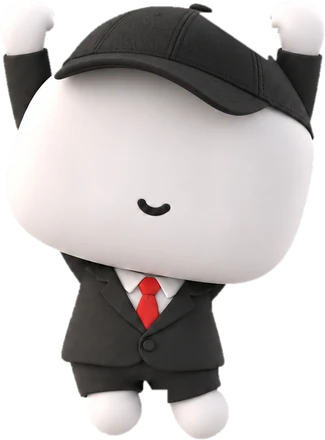
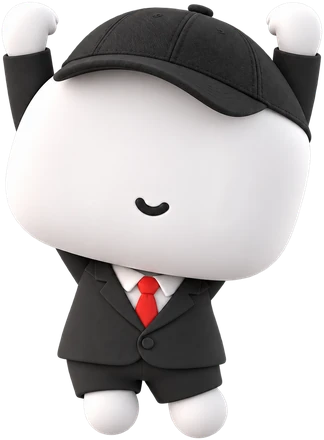
Mascot from the clean renders, arm-only wave, hiding peeker, dialogs stack in open order
- Mascot layers rebuilt from the clean-background PNGs (no backdrop left);
  the wave door moves only its arm; the new-account door's mascot hides
  below the edge and rises while the card is hovered or focused
- New placements: side-peeker on Add an account, ledge on the Profile card,
  arms-up in Restore
- Whatever dialog opens last is on top: a confirm or "Name the new profile"
  asked from inside a browse dialog used to open behind it. Escape closes the
  top dialog only, and the focus trap hands back to the dialog below

diff --git a/master/mascot.js b/master/mascot.js
@@ -6,10 +6,11 @@
 // was an SVG re-drawing and it never looked like him (Furqan, 2026-09-17), so
 // the renders themselves are used, rigged the way a 2D animator would:
 //
-//   mascot/<pose>.webp        the render, cut out of its studio backdrop, with
-//                             the eyes painted out (the face filled in under
-//                             them from the surrounding shading)
+//   mascot/<pose>.webp        the render (from Furqan's clean-background PNGs,
+//                             not keyed off a backdrop), with the eyes painted
+//                             out (filled in from the surrounding shading)
 //   mascot/<pose>-eyes.webp   the render's own eyes, alone, on transparency
+//   mascot/wave-arm.webp      wave only: the raised arm, so it can wave alone
 //
 // Stacked, the two reproduce the render exactly. Apart, the eyes can blink
 // (squash to a line) and follow the pointer without touching the face.
@@ -30,6 +31,8 @@
 //   host.appendChild(m);
 //   NumaxMascot.play(m, 'hop');      // one-shot: hop | nod | pop | wiggle
 //   NumaxMascot.pose(m, 'wave');     // switch pose in place
+//   NumaxMascot.create({ pose: 'ledge', hide: true })  // rests below its edge
+//   NumaxMascot.peek(m, true|false)  // ...comes up / goes back down
 //
 // Poses:  wave (standing, one hand up; `stand` is the same render)
 //         ledge (peeking up over an edge: put the element's bottom ON the edge;
@@ -37,7 +40,7 @@
 //         peek (leaning out from behind an edge; side:'left'|'right' names the
 //               side the edge is on)
 //         hang (hanging from an edge: put the element's top on the edge)
-// Loops:  idle (breathing / bob / sway, per pose) | blink | wave (a hello rock)
+// Loops:  idle (breathing / bob / sway, per pose) | blink | wave (the arm waves)
 //         | swing (hang) | look (glances about when not following)
 // follow: true makes the eyes and a slight lean track the pointer.
 // size:   the rendered WIDTH, as before.
@@ -61,12 +64,21 @@
   // Per render: its size (for the aspect ratio) and each eye's box as
   // [left, top, width, height] in percent of the figure, padded so a moved or
   // squashed eye never shows the edge of its own box.
+  // `arm` (wave only): the raised arm is its own layer, mascot/wave-arm.webp,
+  // figure-sized, turning about the shoulder at [left, top] percent. The body
+  // under it keeps a shoulder stub so the joint never opens. It only swings
+  // OUTWARD far — past about +6deg the sleeve's underside parts from the torso.
+  // Rebuilt 2026-09-17 from Furqan's own clean-background renders (the earlier
+  // cut-outs had been keyed off a studio backdrop and some of it showed).
   var ART = {
-    wave:  { w: 329, h: 440, eyes: [[23.72, 33.93, 9.9, 11.61], [63.31, 40.69, 10.07, 11.73]] },
-    ledge: { w: 406, h: 440, eyes: [[24.42, 48.59, 9.87, 15.26], [65.71, 54.89, 10.05, 15.42]] },
-    hang:  { w: 325, h: 440, eyes: [[23.5, 32.57, 10.02, 11.98], [63.93, 37.69, 10.38, 12.11]] },
-    peek:  { w: 280, h: 440, eyes: [[16.95, 30.22, 12.57, 10.68], [56.38, 41.99, 12.76, 10.68]] },
+    wave:  { w: 326, h: 440, eyes: [[17.82, 29.89, 22.14, 19.38], [56.65, 36.7, 22.82, 19.21]], arm: [24.45, 69.13] },
+    ledge: { w: 396, h: 440, eyes: [[18.68, 40.51, 23.03, 25.53], [59.26, 46.29, 24.02, 25.74]] },
+    hang:  { w: 324, h: 440, eyes: [[16.68, 28.29, 23.27, 20.51], [56.95, 33.07, 23.64, 20.87]] },
+    peek:  { w: 280, h: 440, eyes: [[7.17, 27.58, 30.55, 17.73], [46.67, 39.24, 30.55, 17.56]] },
   };
+  // Bumped whenever the webp files change: the images are replaced under the
+  // same names, and a cached old picture under new eye boxes looks broken.
+  var ART_V = '?v=3';
 
   var reduce = W.matchMedia ? W.matchMedia('(prefers-reduced-motion: reduce)') : { matches: false };
 
@@ -79,7 +91,8 @@
   function pct(v) { return (+v.toFixed(3)) + '%'; }
 
   function build(m, art, name) {
-    var stage = h('span', 'nxm-stage', m);     // one-shots
+    var hider = h('span', 'nxm-hider', m);      // hiding: resting down / peeking up
+    var stage = h('span', 'nxm-stage', hider);  // one-shots
     h('span', 'nxm-shadow', stage);             // contact shadow (standing only)
     var body = h('span', 'nxm-body', stage);    // loops
     var lean = h('span', 'nxm-lean', body);     // pointer lean
@@ -87,9 +100,15 @@
     img.alt = ''; img.draggable = false; img.decoding = 'async';
     // Not loading="lazy": a lazy image never starts while the document is
     // hidden, the same measured trap wzLogo and mkLogo document.
-    img.src = BASE + name + '.webp';
+    img.src = BASE + name + '.webp' + ART_V;
     img.width = art.w; img.height = art.h;
-    var url = 'url("' + BASE + name + '-eyes.webp")';
+    if (art.arm) {
+      var arm = h('img', 'nxm-arm', lean);
+      arm.alt = ''; arm.draggable = false; arm.decoding = 'async';
+      arm.src = BASE + name + '-arm.webp' + ART_V;
+      arm.style.transformOrigin = pct(art.arm[0]) + ' ' + pct(art.arm[1]);
+    }
+    var url = 'url("' + BASE + name + '-eyes.webp' + ART_V + '")';
     art.eyes.forEach(function (e) {
       var eye = h('span', 'nxm-eye', lean);
       var L = e[0], T = e[1], w = e[2], hh = e[3];
@@ -110,7 +129,15 @@
     st.textContent = [
       '.nx-mascot{display:inline-block;position:relative;line-height:0;vertical-align:bottom;width:var(--nxm-size,120px);flex:none;',
       '  -webkit-user-select:none;user-select:none;--nxm-ex:0px;--nxm-ey:0px;--nxm-lean:0deg}',
-      '.nx-mascot .nxm-stage,.nx-mascot .nxm-body,.nx-mascot .nxm-lean{display:block;position:relative}',
+      '.nx-mascot .nxm-hider,.nx-mascot .nxm-stage,.nx-mascot .nxm-body,.nx-mascot .nxm-lean{display:block;position:relative}',
+      /* the waving arm: its own layer over the body, turning at the shoulder */
+      '.nx-mascot .nxm-arm{position:absolute;left:0;top:0;width:100%;height:100%;pointer-events:none;',
+      '  filter:drop-shadow(0 6px 10px rgba(0,0,0,.28))}',
+      /* hiding: resting below its edge with only the cap showing; .up brings it
+         up (springy), and it sinks back without the overshoot */
+      '.nx-mascot .nxm-hider{transition:translate .6s cubic-bezier(.3,1.3,.5,1)}',
+      '.nx-mascot.hiding .nxm-hider{translate:0 var(--nxm-hide,80%);transition-duration:.38s;transition-timing-function:cubic-bezier(.5,0,.7,.4)}',
+      '.nx-mascot.hiding.up .nxm-hider{translate:0 0;transition-duration:.6s;transition-timing-function:cubic-bezier(.3,1.3,.5,1)}',
       '.nx-mascot .nxm-img{display:block;width:100%;height:auto;pointer-events:none;',
       '  filter:drop-shadow(0 1px 0 rgba(255,255,255,.10)) drop-shadow(0 10px 18px rgba(0,0,0,.35))}',
       ':root[data-theme="light"] .nx-mascot .nxm-img{filter:drop-shadow(0 8px 14px rgba(18,26,43,.18))}',
@@ -137,13 +164,13 @@
       '@keyframes nxm-breathe{0%,100%{scale:1 1}50%{scale:.992 1.014}}',
       '@keyframes nxm-bob{0%,100%{translate:0 0}50%{translate:0 2.5%}}',
       '@keyframes nxm-sway{0%,100%{rotate:0deg;translate:0 0}50%{rotate:1.6deg;translate:-2% 0}}',
-      '@keyframes nxm-rock{0%,100%{rotate:0deg}25%{rotate:-2.6deg}75%{rotate:2.6deg}}',
+      /* a wave is the arm, not the body: two quick swings out, then a rest */
+      '@keyframes nxm-arm{0%,70%,100%{rotate:0deg}12%{rotate:-17deg}24%{rotate:4deg}37%{rotate:-15deg}50%{rotate:3deg}60%{rotate:-4deg}}',
       '@keyframes nxm-swing{0%,100%{rotate:-3deg}50%{rotate:3deg}}',
       '.nx-mascot.a-idle .nxm-body{animation:nxm-breathe 3.6s ease-in-out infinite;transform-origin:50% 100%}',
       '.nx-mascot[data-pose="ledge"].a-idle .nxm-body{animation:nxm-bob 3.8s ease-in-out infinite}',
       '.nx-mascot[data-pose="peek"].a-idle .nxm-body{animation:nxm-sway 4.4s ease-in-out infinite;transform-origin:0 100%}',
-      '.nx-mascot[data-pose="wave"].a-wave .nxm-body{animation:nxm-rock 2.4s ease-in-out infinite;transform-origin:50% 100%}',
-      '.nx-mascot[data-pose="wave"].a-wave.a-idle .nxm-lean{animation:nxm-breathe 3.6s ease-in-out infinite}',
+      '.nx-mascot[data-pose="wave"].a-wave .nxm-arm{animation:nxm-arm 2.8s ease-in-out infinite}',
       '.nx-mascot.a-swing .nxm-body{animation:nxm-swing 2.8s ease-in-out infinite;transform-origin:50% 0}',
       /* one-shots: anticipation, action, overshoot, settle */
       '@keyframes nxm-hop{0%{scale:1 1;translate:0 0}14%{scale:1.07 .9;translate:0 0}38%{scale:.94 1.08;translate:0 -14%}',
@@ -258,6 +285,8 @@
     var pose = ART[want] ? want : 'wave';
     var art = ART[pose];
     m.setAttribute('data-pose', pose);
+    m.classList.toggle('hiding', !!o.hide);
+    if (!o.hide) m.classList.remove('up');
     if (o.side === 'right') m.setAttribute('data-side', 'right'); else m.removeAttribute('data-side');
     if (o.size) m.style.setProperty('--nxm-size', typeof o.size === 'number' ? o.size + 'px' : o.size);
     while (m.firstChild) m.removeChild(m.firstChild);
@@ -268,7 +297,7 @@
     loops.forEach(function (l) { m.classList.add('a-' + l); });
     if (o.follow) { m.classList.add('following'); followers.add(m); } else { m.classList.remove('following'); followers.delete(m); }
     m.style.setProperty('--nxm-ex', '0px'); m.style.setProperty('--nxm-ey', '0px'); m.style.setProperty('--nxm-lean', '0deg');
-    m.__nxm = { pose: o.pose, side: o.side, size: o.size, anim: o.anim, follow: !!o.follow, label: o.label };
+    m.__nxm = { pose: o.pose, side: o.side, size: o.size, anim: o.anim, follow: !!o.follow, label: o.label, hide: !!o.hide };
     scheduleBlink(m);
     scheduleLook(m);
   }
@@ -281,7 +310,8 @@
     if (o.label) { m.setAttribute('role', 'img'); m.setAttribute('aria-label', o.label); }
     else m.setAttribute('aria-hidden', 'true');
     apply(m, o);
-    if (o.enter !== false) {
+    // A hiding mascot is already where it belongs; rising in would give it away.
+    if (o.enter !== false && !o.hide) {
       m.classList.add('enter');
       setTimeout(function () { m.classList.remove('enter'); }, 900);
     }
@@ -316,6 +346,14 @@
     m.__nxmT = setTimeout(function () { m.classList.remove(c); m.__nxmBusy = false; }, 850);
   }
 
+  // A hiding mascot (hide:true) rests below its edge; peek(m, true) brings it
+  // up and it stays up until peek(m, false). The caller decides what "hover"
+  // means — usually the card around it.
+  function peek(m, up) {
+    if (!m || !m.classList.contains('hiding')) return;
+    m.classList.toggle('up', !!up);
+  }
+
   // [data-mascot] placeholders, now and later.
   function upgradeOne(n) {
     if (!n || n.__nxmDone) return;
@@ -328,11 +366,13 @@
       side: n.getAttribute('data-mascot-side'),
       follow: n.hasAttribute('data-mascot-follow'),
       label: n.getAttribute('data-mascot-label'),
+      hide: n.hasAttribute('data-mascot-hide'),
     };
     n.classList.add('nx-mascot');
     if (o.label) { n.setAttribute('role', 'img'); n.setAttribute('aria-label', o.label); }
     else n.setAttribute('aria-hidden', 'true');
     apply(n, o);
+    if (o.hide) return;
     n.classList.add('enter');
     setTimeout(function () { n.classList.remove('enter'); }, 900);
   }
@@ -360,6 +400,6 @@
   }
   if (D.readyState === 'loading') D.addEventListener('DOMContentLoaded', start); else start();
 
-  W.NumaxMascot = { create: create, mount: mount, pose: pose, play: play, upgrade: upgrade,
+  W.NumaxMascot = { create: create, mount: mount, pose: pose, play: play, peek: peek, upgrade: upgrade,
     poses: POSES.slice(), loops: LOOPS.slice(), oneshots: ONESHOTS.slice() };
 })();

diff --git a/master/app.js b/master/app.js
@@ -351,6 +351,7 @@
         list.appendChild(row);
       });
       document.body.appendChild(list);
+      raiseLayer(list);
       // Measured, then clamped into the viewport in both axes — a list opened
       // from a control near the bottom flips above rather than running off.
       const r = btn.getBoundingClientRect();
@@ -454,6 +455,14 @@
     w.appendChild(el('h4', '', title)); w.appendChild(el('p', '', body)); return w;
   }
 
+  // Stacking: whatever opened LAST is on top. The confirm/prompt dialog used a
+  // fixed z-index (100) and the marketplace-style dialogs another (120), so a
+  // confirm or "Name the new profile" asked from inside a browse dialog opened
+  // underneath it (Furqan, 2026-09-17). Every floating surface — both dialog
+  // kinds and the custom select's list — takes the next number up as it opens.
+  let layerZ = 200;
+  const raiseLayer = n => { if (n) n.style.zIndex = String(++layerZ); return n; };
+
   // in-app modal — replaces browser confirm/prompt (no native "top" dialogs)
   function uiModal(opts) {
     return new Promise(resolve => {
@@ -475,6 +484,7 @@
       ok.textContent = opts.okLabel || 'Confirm'; ok.className = 'btn ' + (opts.danger ? 'danger-btn' : 'btn-primary');
       cancel.style.display = opts.noCancel ? 'none' : '';
       cancel.textContent = opts.cancelLabel || 'Cancel';
+      raiseLayer(root);
       root.style.display = '';
       const done = v => { root.style.display = 'none'; ok.onclick = cancel.onclick = $('modal-bg').onclick = null; document.removeEventListener('keydown', onKey); resolve(v); };
       ok.onclick = () => done(opts.input ? inp.value : true);
@@ -2141,6 +2151,7 @@
       nameBox.oninput = () => { nameTouched = !!nameBox.value.trim(); };
       suggest();
     }
+    raiseLayer(root);
     root.style.display = '';
     return new Promise(resolve => {
       const done = async (proceed) => {
@@ -3564,7 +3575,15 @@
   // so every existing caller works unchanged; place() is simply a no-op now,
   // because a centred dialog has nowhere to be placed.
   let mkPop = null;
-  function mkPopKey(e) { if (e.key === 'Escape') { e.stopPropagation(); closeMkPop(); } }
+  // Escape closes the TOP thing only: a confirm or an open dropdown sitting on
+  // this dialog handles its own Escape, and this capture-phase listener would
+  // otherwise get there first and close the dialog underneath instead.
+  function mkPopKey(e) {
+    if (e.key !== 'Escape' || openSelect) return;
+    const conf = $('modal-root');
+    if (conf && conf.style.display !== 'none' && !conf.classList.contains('mo-closing')) return;
+    e.stopPropagation(); closeMkPop();
+  }
   function closeMkPop() {
     if (!mkPop) return;
     const root = mkPop.root, after = mkPop.onClose; mkPop = null;
@@ -3581,7 +3600,7 @@
   }
   function openMkPop(anchor, title, sub) {
     closeMkPop();
-    const root = el('div', 'modal-root mk-dlg-root');
+    const root = raiseLayer(el('div', 'modal-root mk-dlg-root'));
     const bg = el('div', 'modal-bg');
     const box = el('div', 'modal-card mk-dlg');
     const h = el('div', 'mk-dlg-h modal-msg');
@@ -5571,9 +5590,21 @@
         card.appendChild(tx);
         const art = el('div', 'wz-door-art');
         if (window.NumaxMascot) {
-          const m = window.NumaxMascot.create({ pose: e.mascot, size: '100%', follow: true });
+          // The new-account door's mascot is hiding below the card's floor and
+          // only comes up while the card is hovered or focused (Furqan,
+          // 2026-09-17). The welcome-back one waves its arm the whole time.
+          const hide = e.mascot === 'ledge';
+          const m = window.NumaxMascot.create({ pose: e.mascot, size: '100%', follow: true, hide });
           art.appendChild(m);
-          card.addEventListener('mouseenter', () => window.NumaxMascot.play(m, 'hop'));
+          if (hide) {
+            const up = on => window.NumaxMascot.peek(m, on);
+            card.addEventListener('mouseenter', () => up(true));
+            card.addEventListener('mouseleave', () => up(card.matches(':focus-visible')));
+            card.addEventListener('focus', () => up(true));
+            card.addEventListener('blur', () => up(card.matches(':hover')));
+          } else {
+            card.addEventListener('mouseenter', () => window.NumaxMascot.play(m, 'hop'));
+          }
         }
         card.appendChild(art);
         box.appendChild(card);

diff --git a/master/index.html b/master/index.html
@@ -2722,6 +2722,25 @@
   /* The pill indicator draws the selected chip's background, so whatever sits
      on top of it has to read against --invert-bg, not against the page. */
   .set-tabs .set-tab.on, .set-platbar button.on{ color:var(--invert-fg); }
+  /* Mascot placements outside the wizard (Furqan's Studio notes, 2026-09-17).
+     Every one is decoration: pointer-events off, hidden where the card is too
+     small to hold it beside its own content, and absent if mascot.js is. */
+  /* Accounts: leaning out from behind the Add-an-account card's right edge,
+     beside the form. The card is the container so the rule follows the card's
+     own width, not the window's. */
+  .accounts-layout > .card:first-child{ position:relative; container-type:inline-size; }
+  .accounts-layout .ac-peek{ position:absolute; right:0; top:62px; width:136px; pointer-events:none; z-index:0; }
+  @container (max-width:560px){ .accounts-layout .ac-peek{ display:none; } }
+  /* Profile: peeking up over the bottom edge of the head card, under the title. */
+  .pf-head-l{ position:relative; }
+  .pf-head-card .pf-sit{ position:absolute; left:auto; right:22px; bottom:-16px; width:66px; pointer-events:none; }
+  @media (max-width:900px){ .pf-head-card .pf-sit{ display:none; } }
+  /* Restore: arms up in the card's empty lower half; pushed down (and off
+     screen, inside the card's own scroller) as the restore steps grow. */
+  .panel[data-panel="drive"] .dr-scroll{ display:flex; flex-direction:column; }
+  .dr-cheer{ margin:auto auto 0; padding-top:18px; width:150px; pointer-events:none; }
+  .dr-cheer .nx-mascot{ width:100%; }
+  @media (max-height:720px){ .dr-cheer{ display:none; } }
 </style>
 <script>
   // Theme is a device preference and never leaves this browser, so it is read
@@ -3136,6 +3155,7 @@
       <div class="accounts-layout">
       <div class="card">
         <div class="chead"><h3>Add an account</h3></div>
+        <span class="ac-peek" data-mascot="peek" data-mascot-side="right" data-mascot-size="100%" data-mascot-follow></span>
         <div class="field-col">
           <label class="fld"><span>Nuvio email</span><input id="ac-email" type="email" autocomplete="off" placeholder="name@example.com"></label>
           <label class="fld"><span>Password</span><input id="ac-pass" type="password" autocomplete="off" placeholder="Nuvio password"></label>
@@ -3160,6 +3180,7 @@
           <span class="eyebrow">Profile</span>
           <h1>Open one profile and edit it.</h1>
           <p>Add-ons, plugins, collections, and settings — editable in place.</p>
+          <span class="pf-sit" data-mascot="ledge" data-mascot-size="100%" data-mascot-follow></span>
         </div>
         <div class="pf-head-r">
           <span class="eyebrow">Choose a profile</span>
@@ -3418,6 +3439,7 @@
       <div class="card"><div class="chead"><h3>Restore</h3></div>
         <div class="dr-scroll">
           <div id="dr-restore"><p class="empty sm">Open this tab to restore.</p></div>
+          <div class="dr-cheer"><span data-mascot="hang" data-mascot-anim="idle blink look" data-mascot-size="100%" data-mascot-follow></span></div>
         </div></div>
       </div>
     </section>
@@ -3529,11 +3551,11 @@
 <script src="./engine.js?v=37047507"></script>
 <script src="./meta.js?v=2fac004b"></script>
 <script src="./nuvio-settings-schema.js?v=e11b5ae1"></script>
-<script src="./ui-motion.js?v=2d4d14a8"></script>
+<script src="./ui-motion.js?v=68a58b1e"></script>
 <script src="./market.js?v=d723c06a"></script>
 <script src="./collections.js?v=4e74c1ec"></script>
 <script src="./wizard.js?v=cbaaef0b"></script>
-<script src="./mascot.js?v=ca081ba6"></script>
-<script src="./app.js?v=b9fde37f"></script>
+<script src="./mascot.js?v=5f1cfff1"></script>
+<script src="./app.js?v=12a8e586"></script>
 </body>
 </html>

diff --git a/master/ui-motion.js b/master/ui-motion.js
@@ -161,7 +161,10 @@
   // the accessibility scaffolding around that, without touching how the
   // dialog resolves. Escape/Enter handling stays in app.js.
   // ===============================================================
-  var modalSeen = new WeakMap(), modalReturn = null, trapRoot = null;
+  // Dialogs can stack (a confirm asked from inside a browse dialog), so the
+  // trap is a stack too: closing the top one hands the trap back to the one
+  // beneath it, and each dialog remembers where ITS focus came from.
+  var modalSeen = new WeakMap(), trapRoot = null, trapStack = [];
   function focusables(root) {
     return [].slice.call(root.querySelectorAll(
       'button, [href], input, select, textarea, [tabindex]:not([tabindex="-1"])'
@@ -192,7 +195,9 @@
         card.setAttribute('aria-modal', 'true');
         var msg = card.querySelector('.modal-msg');
         if (msg) { if (!msg.id) msg.id = 'mo-dlg-msg-' + i; card.setAttribute('aria-labelledby', msg.id); }
-        modalReturn = D.activeElement;
+        r.__moReturn = D.activeElement;
+        trapStack = trapStack.filter(function (c) { return c !== card; });
+        trapStack.push(card);
         trapRoot = card; D.addEventListener('keydown', onTrapKey, true);
         // app.js focuses the text input itself when the dialog has one;
         // only take focus when it does not, so the two never fight.
@@ -217,9 +222,11 @@
           r.style.display = ''; r.classList.add('mo-closing');
           r.__moCloseT = setTimeout(makeCloser(r), 130);
         }
-        if (trapRoot && r.contains(trapRoot)) { D.removeEventListener('keydown', onTrapKey, true); trapRoot = null; }
-        if (modalReturn && modalReturn.focus) { try { modalReturn.focus(); } catch (e) {} }
-        modalReturn = null;
+        trapStack = trapStack.filter(function (c) { return c !== card && c.isConnected; });
+        trapRoot = trapStack.length ? trapStack[trapStack.length - 1] : null;
+        if (!trapRoot) D.removeEventListener('keydown', onTrapKey, true);
+        var back = r.__moReturn; r.__moReturn = null;
+        if (back && back.isConnected && back.focus) { try { back.focus({ preventScroll: true }); } catch (e) {} }
       }
     }
   }
